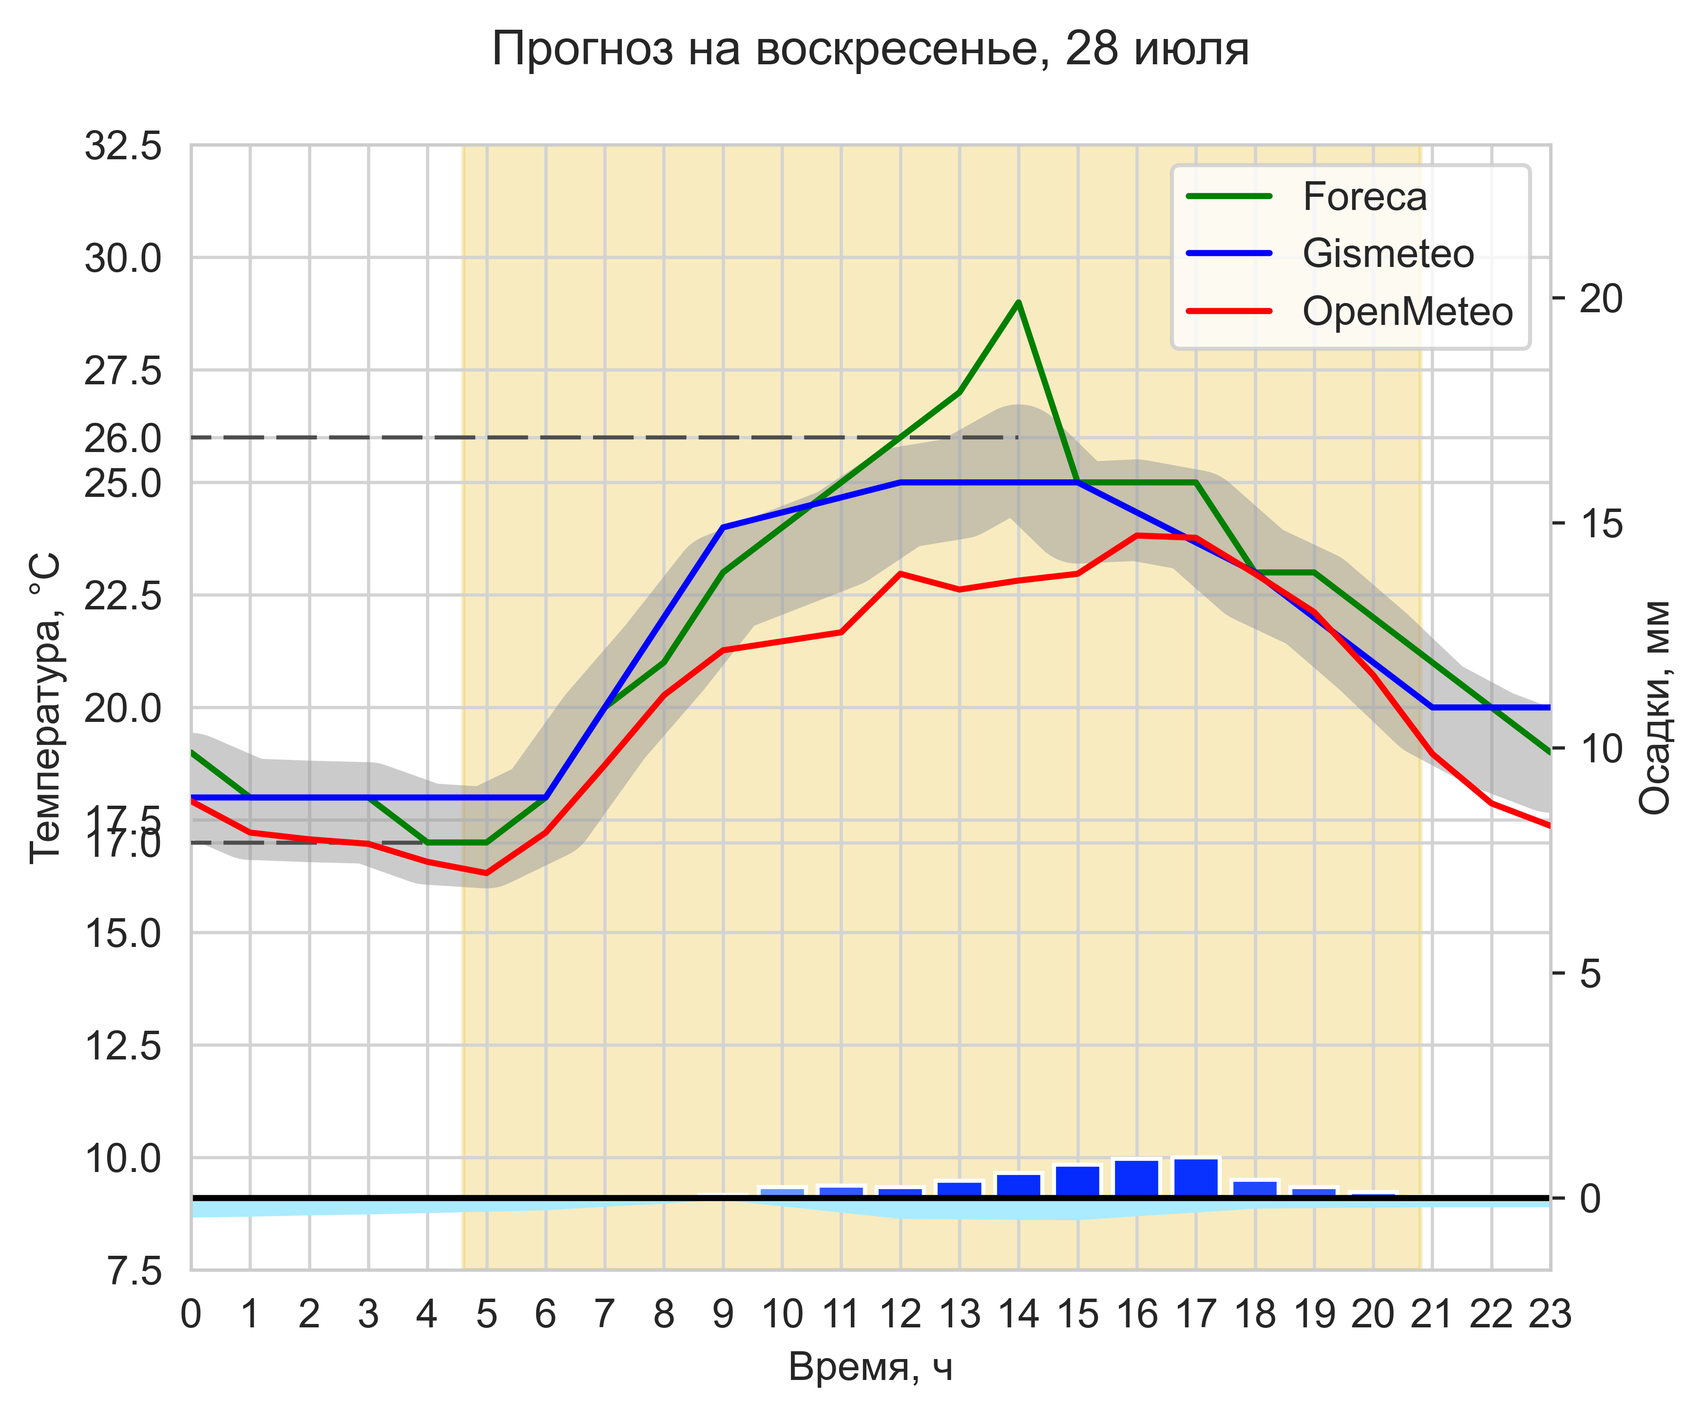
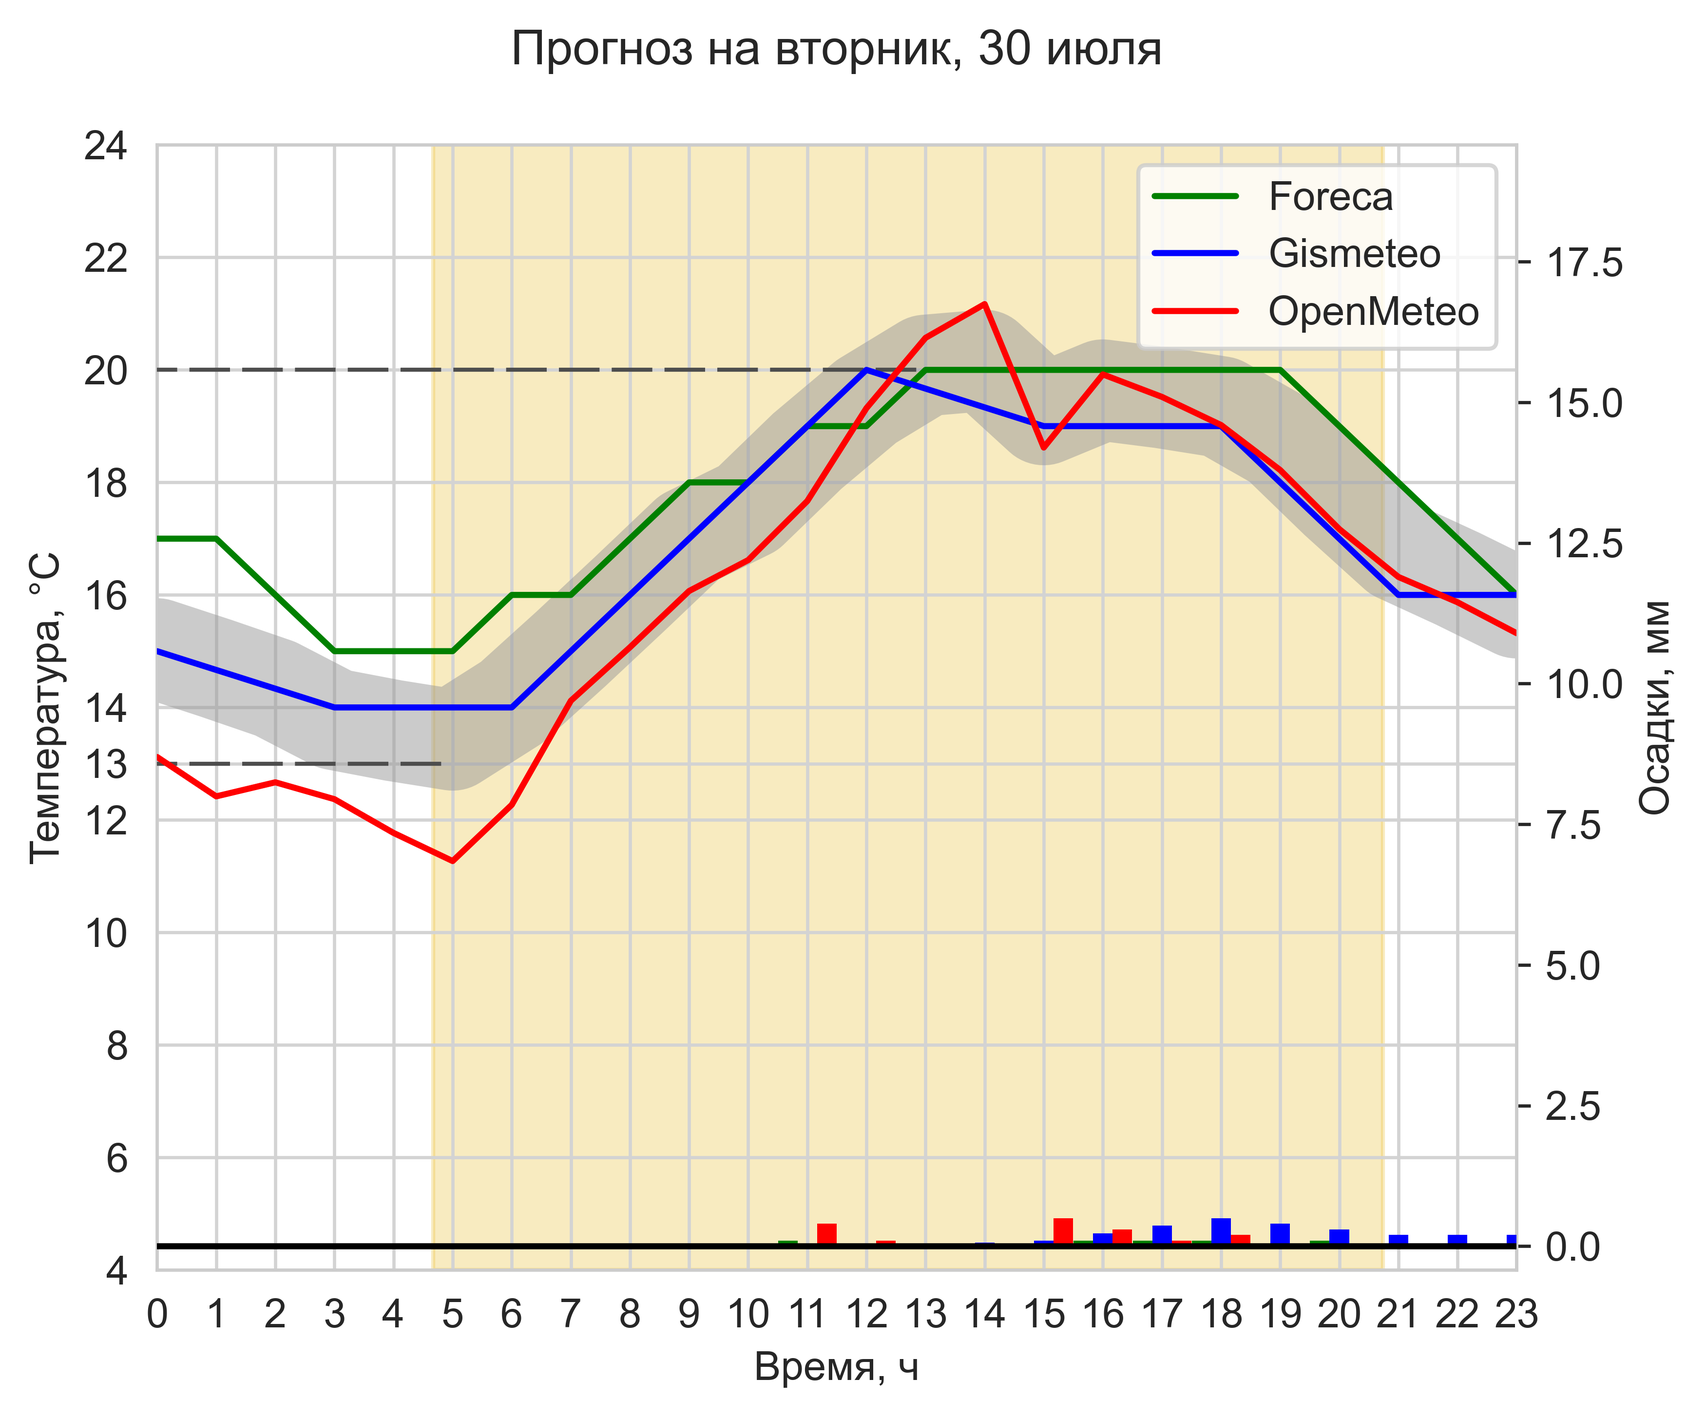
pandas df from parsers

Changed region(s): [[0.0311, 0.0928, 0.9652, 0.99], [0.2802, 0.0, 0.7472, 0.0619], [0.0623, 0.0928, 0.0934, 0.1238]]

diff --git a/Forecast.py b/Forecast.py
@@ -49,6 +49,13 @@ class Forecast:
 
         return foreca.result(), gismeteo.result(), openmeteo.result()
 
+    def log_forecast_update(self, day: Day):
+        metadata = read_json("metadata.json")
+        min_date = datetime.today() - timedelta(days=1)
+        max_date = datetime.today() + timedelta(days=1)
+        new_meta = {k: v for k, v in metadata.items() if min_date < datetime.strptime(k, "%Y%m%d") < max_date}
+        new_meta[day.short_date] = datetime.now().strftime('%Y-%m-%dT%H:%M:%S')
+        write_json(new_meta, "metadata.json")
     def get_pandas(self, day: Day, asnc=True):
         start = time.time()
         if asnc:
@@ -56,30 +63,12 @@ class Forecast:
         else:
             nested_forecast = list(self.get_raw_today() if day.offset == 0 else self.get_raw_tomorrow())
         end = time.time()
-        metadata = read_json("metadata.json")
-        min_date = datetime.today() - timedelta(days=1)
-        max_date = datetime.today() + timedelta(days=1)
-        new_meta = {k: v for k, v in metadata.items() if min_date < datetime.strptime(k, "%Y%m%d") < max_date}
-        new_meta[day.short_date] = datetime.now().strftime('%Y-%m-%dT%H:%M:%S')
-        write_json(new_meta, "metadata.json")
+        self.log_forecast_update(day)
         print(f"With async={asnc} gathering weather has taken {end - start} seconds")
 
-        for i in range(2):
-            nested_forecast[i] = pd.DataFrame.from_records(nested_forecast[i],
-                                                           columns=["time", "temperature", "precipitation",
-                                                                    "wind-speed"]).astype(float)
-        openmeteo = pd.DataFrame.from_records(nested_forecast[2][0], columns=["time", "temperature", "precipitation",
-                                                                              "wind-speed"])
+        openmeteo = nested_forecast[2][0]
         prob = pd.DataFrame({"time": openmeteo["time"], "precipitation-probability": nested_forecast[2][1]})
         foreca, gis = nested_forecast[0], nested_forecast[1]
-
-        # stregth = np.random.uniform(7, 18, size=3)
-        # peak = np.random.uniform(6,18, size=3)
-        # length = np.random.uniform(2,5, size=3)
-        #
-        # foreca["precipitation"]=np.exp(-np.power(np.arange(0,len(foreca))-peak[0],2)/length[0])*stregth[0]
-        # gis["precipitation"]=np.exp(-np.power(np.arange(0,24,3)-peak[1],2)/length[1])*stregth[1]
-        # openmeteo["precipitation"]=np.exp(-np.power(np.arange(0,24)-peak[2],2)/length[2])*stregth[2]
 
         foreca = foreca.rename(columns=lambda x: x if x == "time" else "foreca_" + x)
         gis = gis.rename(columns=lambda x: x if x == "time" else "gismeteo_" + x)
@@ -93,14 +82,39 @@ class Forecast:
 
         return combined
 
+    def update_forecast(self, combined: pd.DataFrame, day:Day) -> pd.DataFrame:
+        print("updating old values...")
+        gis = self.__gismeteo.get_weather(day.date)
+        open, prob = get_open_meteo(day.offset + 1)
+        fore = self.__foreca.get_weather(day.date)
+
+        combined = combined.drop(labels=list(combined.filter(regex="gismeteo_", axis=1).columns), axis=1)
+        fs = ["temperature", "precipitation", "wind-speed"]
+        for s in fs:
+            combined[f"openmeteo_{s}"] = open[s]
+            combined[f"foreca_{s}"] = combined[f"foreca_{s}"].combine_first(fore[s])
+
+        gis = gis.rename(columns=lambda x: x if x == "time" else "gismeteo_" + x)
+        combined = pd.merge(combined, gis, on="time", how="left")
+        combined["precipitation_probability"] = prob
+        combined = combined.interpolate(method="linear")
+        combined = combined.set_index("time")
+        return combined
+
     def fetch_forecast(self, day: Day, update=False) -> pd.DataFrame:
+        metadata = read_json("metadata.json")
         folder = "forecast"
         filename = f"{folder}/{day.forecast_name}.csv"
         if path.exists(folder):
             if path.exists(filename):
                 combined = pd.read_csv(filename, dtype=np.float64, index_col="time")
-
-                print(f"found saved data for {day.full_date}")
+                if update:
+                    combined = self.update_forecast(combined, day)
+                    self.log_forecast_update(day)
+                    combined.to_csv(path_or_buf=filename, index_label="time", index=True)
+                    print(f"updated data saved at '{filename}'")
+                else:
+                    print(f"found saved data for {day.full_date}")
                 return combined
             else:
                 print(f"no saved data found for {day.full_date}")

diff --git a/ForecastRendering.py b/ForecastRendering.py
@@ -44,7 +44,7 @@ def rgb_to_hex(rgb_color):
     return '#%02x%02x%02x' % tuple(rgb_color)
 
 
-def get_and_render(offset, save=True, show=False, generate_new=False):
+def get_and_render(offset, update_forecast=False, save_image=True, show=False, generate_new=False):
 
     day = Day(offset)
     path = f"Images/{day.forecast_name}.png"
@@ -52,8 +52,8 @@ def get_and_render(offset, save=True, show=False, generate_new=False):
         return {"path": path, "day": day}
     else:
         forecast = Forecast()
-        data = ForecastData(forecast, day)
-        return render_forecast_data(data, sources=None, save=save, show=show)
+        data = ForecastData(forecast, day, update_forecast)
+        return render_forecast_data(data, sources=None, save=save_image, show=show)
 
 
 def render_forecast_data(data: ForecastData, sources: list[str] = None, save=True, show=False):
@@ -62,8 +62,8 @@ def render_forecast_data(data: ForecastData, sources: list[str] = None, save=Tru
         sources = data.source_names
 
     day = data.day
-
     print(f"Rendering for {day.full_date}")
+
     fig, ax1 = plt.subplots(figsize=(6, 5))
     Xaxis = data.time
     main_plot = "temperature"
@@ -78,23 +78,17 @@ def render_forecast_data(data: ForecastData, sources: list[str] = None, save=Tru
     ax1.set_ylabel("Температура, °C")
     plt.legend()
 
-    bottom = np.min(data.mean_values[main_plot]) - 3
+    bottom = np.min(data.mean_values[main_plot]) - 5
     if not data.precipitation_exists:
         plt.ylim(bottom=bottom)
     if data.precipitation_exists:
         color1 = hex_to_rgb("#98cefa")  # Uncertain
         color2 = hex_to_rgb("#0026FF")  # Certain
 
-        colors = [rgb_to_hex(interpolate_color(color1, color2, factor)) for factor in data.precp_certainty]
-        # colors = [rgb_to_hex(interpolate_color(color1, color2, factor)) for factor in [0]*24]
-        bottom -= 5
-        prob_height = 1  # height of the precipitation probability graph
-        # plt.bar(Xaxis, data.mean_values["precipitation"], color=colors, bottom=bottom, linewidth=0)
-        plt.fill_between(Xaxis, bottom, -prob_height * data.precipitation_probability / 100 + bottom,
-                         color='#abebff')
-        bar_width = 0.3
+        bottom -= 4
+
+        bar_width = 0.33
         for i in range(len(sources)):
-            # print(data.get_source(s)["precipitation"])
             amount=np.array(data.get_source(sources[i])["precipitation"])
             cubic_interpolation_model = interpolate.interp1d(Xaxis, amount, kind='cubic')
             X_ = np.linspace(0, 23, 24*6)
@@ -105,9 +99,6 @@ def render_forecast_data(data: ForecastData, sources: list[str] = None, save=Tru
 
         ax2 = ax1.secondary_yaxis("right", functions=(lambda x: (x - bottom), lambda x: x - bottom))
         ax2.set_ylabel("Осадки, мм")
-
-        ybottom, ytop = -prob_height + bottom, max(data.mean_values[main_plot]) + 6
-        plt.ylim(bottom=ybottom)
 
     d = data.mean_values[main_plot]
     lower_x = np.argmin(d)

diff --git a/ForecastData.py b/ForecastData.py
@@ -16,11 +16,13 @@ class ForecastData:
     def source_names(self):
         return ["Foreca", "Gismeteo", "OpenMeteo"]
 
-    def __init__(self, forecast: Forecast, day: Day):
+    def __init__(self, forecast: Forecast, day: Day, update_forecast=False):
         self.colormap = {"Foreca": "green", "Gismeteo": "blue", "OpenMeteo": "red"}
         self.day = day
-        full_data = forecast.fetch_forecast(day)
+        full_data = forecast.fetch_forecast(day, update_forecast)
         columns = full_data.columns.drop(["precipitation-probability"])
+        # print(full_data.columns)
+        # print(full_data["precipitation-probability"])
         factors_set = set()
         for col in columns:
             before, after = col.split('_', 1)
@@ -31,36 +33,20 @@ class ForecastData:
         self.__dict = {
             self.source_names[i]: full_data.loc[:, full_data.columns.str.startswith(self.source_names[i].lower())]
             .rename(columns=lambda x: x.split("_")[1]) for i in range(len(self.source_names))}
-        self.precipitation_probability = full_data["precipitation-probability"]
 
-        cols = full_data.filter(regex=r'_precipitation$')
-        each = cols.sub(cols.mean(axis=1), axis=0).abs()
-        diffs = each.mean(axis=1)
-        # stds = full_data.filter(regex=r'_precipitation$').fillna(0).std(axis=1)
-
-        probable = np.clip(self.precipitation_probability, 0, 20)
-        b = np.max(diffs)
-        if b != 0:
-            self.precp_certainty = 1-0.6 * np.arctan(diffs)
-        else:
-            self.precp_certainty = diffs * 0
-        print("Data, 47: unnecessary calculations")
         self.mean_values = {}
         for suffix in self.factors:
             selected_columns = full_data.filter(regex=f'_{suffix}$')
             self.mean_values[suffix] = selected_columns.mean(axis=1)
 
         prec_count = np.count_nonzero(self.mean_values["precipitation"])
-        prob_count = np.count_nonzero(np.where(self.precipitation_probability > 1, 1, 0)) * 100
+        prob_count = np.count_nonzero(np.where(full_data["precipitation-probability"] > 2, 1, 0)) * 100
         prec_per_hour = 0 if prec_count == 0 else sum(self.mean_values["precipitation"]) / prec_count
-        prob_per_hour = 0 if prob_count == 0 else sum(self.precipitation_probability) / prob_count
-        self.precipitation_exists = prob_per_hour * prec_per_hour > 0.007
+        prob_per_hour = 0 if prob_count == 0 else sum(full_data["precipitation-probability"]) / prob_count
+        self.precipitation_exists = prob_per_hour * prec_per_hour > 0.01
         if day.offset == 0:
             pd.DataFrame(data=self.mean_values).to_csv(path_or_buf=f"{os.getcwd()}/archive/{day.short_date}.csv", index_label="time",
                                                        index=True)
-
-    def get_one(self, index):
-        return self.__dict[self.source_names[index]]
 
     def get_source(self, name):
         return self.__dict[name]

diff --git a/Lytkarino_Weather_Bot.py b/Lytkarino_Weather_Bot.py
@@ -31,8 +31,7 @@ async def start(update: Update, context: CallbackContext) -> None:
     await update.message.reply_text("""На графике показаны:
     - температура из трёх источников
     - средняя температура из тех же данных
-    - среднее количество осадков в час
-    - вероятность выпадения осадков, по OpenMeteo (ширина голубой полоски под столбчатой диаграммой)
+    - количество осадков в час из трех источников
     - световой день
     Также, насыщенность цвета столбчатой диаграммы показывает, насколько совпадает количество осадков в разных источниках.""")
 
@@ -48,7 +47,10 @@ async def tod(update: Update, context: CallbackContext):
 
     metadata = read_json("metadata.json")
     await update.message.reply_text(datetime.strptime(metadata[pic['day'].short_date], '%Y-%m-%dT%H:%M:%S').strftime(
-        "Данные плучены %d.%m.%Y, в %H:%M"))
+        "Данные в последний раз обновлены %d.%m.%Y, в %H:%M"))
+    print("After it has sent")
+
+
 async def send_today(update: Update, context: CallbackContext) -> int:
     await tod(update, context)
     return ConversationHandler.END
@@ -61,7 +63,7 @@ async def tom(update: Update, context: CallbackContext):
     await context.bot.send_photo(chat_id=chat_id, photo=pic["path"])
     metadata = read_json("metadata.json")
     await update.message.reply_text(datetime.strptime(metadata[pic['day'].short_date], '%Y-%m-%dT%H:%M:%S').strftime(
-        "Данные плучены %d.%m.%Y, в %H:%M"))
+        "Данные в последний раз обновлены %d.%m.%Y, в %H:%M"))
 async def send_tomorrow(update: Update, context: CallbackContext) -> int:
     await tom(update, context)
     return ConversationHandler.END

diff --git a/test.py b/test.py
@@ -22,56 +22,11 @@ pd.set_option('display.max_columns', 10)  # Increase the number of columns to di
 pd.set_option('display.max_colwidth', 50)  # Set the max column width to 50 characters
 
 from Parsers.OpenMeteo import get_open_meteo
+from Parsers.GismeteoParser import GismeteoParser
 from Parsers.ForecaParser import ForecaParser
 import re
 from datetime import datetime
 
-f.write(f"starting {datetime.now()}\n")
-
-# mishad2304+python@gmail.com
-# dolgpa+python@gmail.com
-# midolgop@yandex.ru
-port = 465
-
-config = read_json('mail/secrets.json')
-rec_str=config["yandex_email"]
-msg = email.message.Message()
-# message = MIMEMultipart("related")
-# message["Subject"] = f"Тест HTML"
-# message["From"] = config["gmail_email"]
-msg["Subject"] = "Тест HTML"
-msg["To"] = rec_str
-msg["From"] = config["gmail_email"]
-msg.add_header('Content-Type','text/html')
-msg.set_payload('Body of <b>message</b>')
-
-# noinspection SpellCheckingInspection
-html = """
-<html>
-  <body>
-    <h1 style="color: blue; text-align: center;">Привет от Яндекс Почты!</h1>
-    <p>Это тестовое письмо с <b>HTML-контентом</b>.</p>
-    <p>Вот несколько примеров форматирования:</p>
-    <ul>
-      <li>Элемент списка 1</li>
-      <li>Элемент списка 2</li>
-    </ul>
-    <p>И изображение:</p>
-    <img src="https://www.example.com/image.jpg" alt="Example Image" style="width: 100%; max-width: 600px;">
-  </body>
-</html>
-"""
-
-# message.attach(MIMEText(html, "text/html", "utf-8"))
-# message.attach(MIMEText(html, "text/plain", "utf-8"))
-
-
-
-context = ssl.create_default_context()
-with smtplib.SMTP_SSL("smtp.gmail.com", port, context=context) as s:
-    s.login(config["gmail_email"], config[f"gmail_password"])
-
-    s.sendmail(msg["From"], rec_str, msg.as_string())
-    print(f"email(s) sent to {rec_str}")
-    s.quit()
-
+# p = GismeteoParser()
+# pprint(p.get_weather_tomorrow())
+pprint(get_open_meteo(1)[1])

diff --git a/Parsers/GismeteoParser.py b/Parsers/GismeteoParser.py
@@ -1,6 +1,7 @@
 import datetime
 from typing import List, Any
 
+import pandas as pd
 from selenium import webdriver
 from selenium.webdriver.common.by import By
 from bs4 import BeautifulSoup
@@ -31,7 +32,7 @@ class GismeteoParser(BaseParser):
         else:
             print("Other days are not supported")
 
-    def get_weather(self, date) -> list[list[str | int | float]]:
+    def get_weather(self, date) -> pd.DataFrame:
         print("Loading Gismeteo...")
         soup = self.parse_page(date)
 
@@ -46,4 +47,6 @@ class GismeteoParser(BaseParser):
         wind = [list(w.strings) for w in wind_row_items]
         wind = [int(item) if item.isdigit() else 0 for sublist in wind for item in sublist]
 
-        return [[clocks[i], int(temps[i]), float(mm_percp[i].replace(",", ".")), wind[i]] for i in range(len(clocks))]
+        data = [[clocks[i], int(temps[i]), float(mm_percp[i].replace(",", ".")), wind[i]] for i in range(len(clocks))]
+        return pd.DataFrame.from_records(data, columns=["time", "temperature", "precipitation", "wind-speed"]).astype(
+            float)

diff --git a/Parsers/ForecaParser.py b/Parsers/ForecaParser.py
@@ -1,5 +1,6 @@
 from pprint import pprint
 
+import pandas as pd
 from bs4 import BeautifulSoup
 
 from Parsers.BaseParser import BaseParser
@@ -22,7 +23,7 @@ class ForecaParser(BaseParser):
             print(ex)
             return None
 
-    def get_weather(self, date) -> list[list[str]]:
+    def get_weather(self, date) -> pd.DataFrame:
         print("Loading Foreca...")
         soup = self.parse_date(date)
         table = soup.find("div", class_="hourContainer")
@@ -31,5 +32,5 @@ class ForecaParser(BaseParser):
                  row.find("span", "rain_mm").text.split()[0],
                  row.find("span", "wind_ms").text
                  ] for row in table.findAll("div", "hour")]
-
+        data = pd.DataFrame.from_records(data, columns=["time", "temperature", "precipitation", "wind-speed"]).astype(float)
         return data

diff --git a/Parsers/BaseParser.py b/Parsers/BaseParser.py
@@ -1,5 +1,6 @@
 from datetime import datetime, timedelta
 
+import pandas as pd
 from selenium import webdriver
 from selenium.webdriver.chrome.webdriver import WebDriver
 
@@ -11,13 +12,13 @@ class BaseParser:
         self.driver: WebDriver = webdriver.Chrome(options=options)
         # self.driver.maximize_window()
 
-    def get_weather(self, date) -> list[list[str]]:
+    def get_weather(self, date) -> pd.DataFrame:
         raise NotImplementedError("Subclasses should implement this method")
 
-    def get_weather_today(self):
+    def get_weather_today(self) -> pd.DataFrame:
         return self.get_weather(datetime.now())
 
-    def get_weather_tomorrow(self):
+    def get_weather_tomorrow(self) -> pd.DataFrame:
         return self.get_weather(datetime.now() + timedelta(days=1))
 
     def close(self):

diff --git a/Parsers/OpenMeteo.py b/Parsers/OpenMeteo.py
@@ -49,4 +49,6 @@ def get_open_meteo(day=1)->tuple[np.array, np.array]:
         start_index = len(arr) // 2
         arr = arr[start_index:]
         hourly_precipitation_probability = hourly_precipitation_probability[start_index:]
-    return arr, hourly_precipitation_probability
+
+    data = pd.DataFrame.from_records(arr, columns=["time", "temperature", "precipitation", "wind-speed"]).astype(float)
+    return data, hourly_precipitation_probability

diff --git a/main.py b/main.py
@@ -7,5 +7,5 @@ delete_old_files()
 
 forecast = Forecast()
 
-a = ForecastData(forecast, Day(0))
-b = ForecastData(forecast, Day(1))
+a = ForecastData(forecast, Day(0), False)
+b = ForecastData(forecast, Day(1), False)
